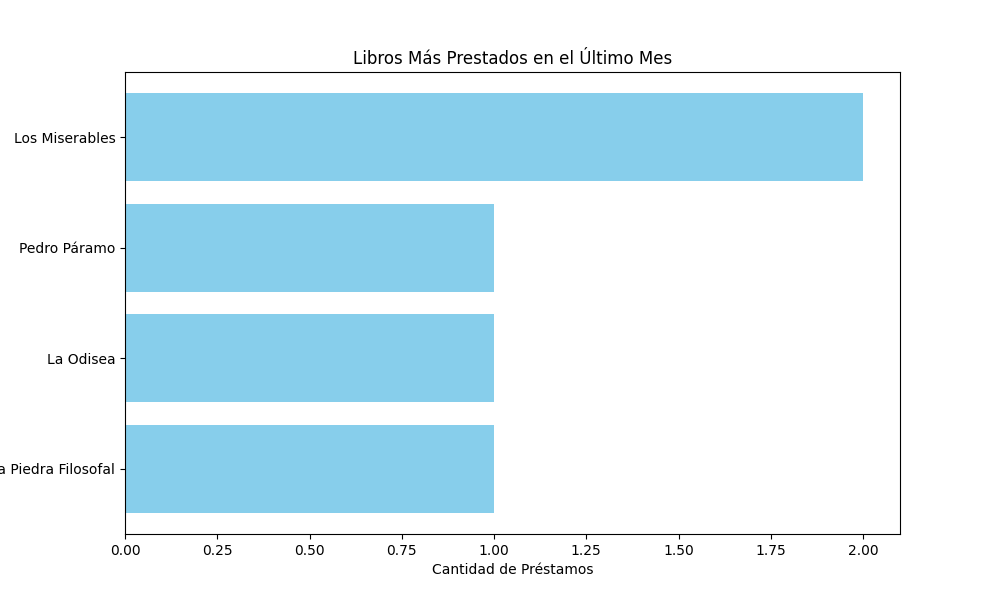
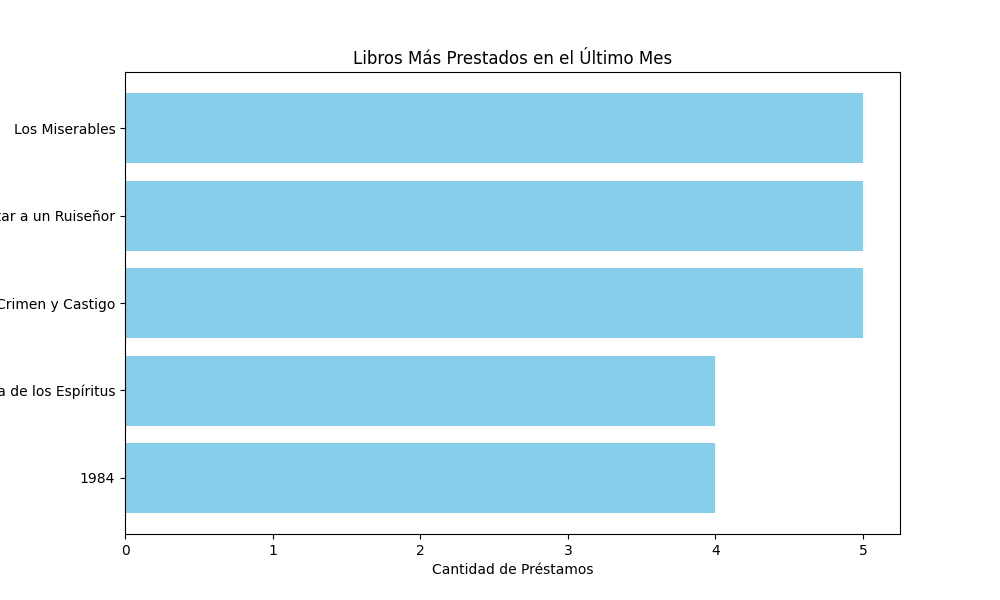
Carga de datos corregida nuevamente

diff --git a/Controlador/gestorBiblioteca.py b/Controlador/gestorBiblioteca.py
@@ -76,10 +76,17 @@ class BibliotecaGestor:
             return "ID del préstamo no encontrado."
 
 
+        # Verificar si ya está devuelto, y si no, lo marca como devuelto
+        # Se hace primero esto, porque si no guarda multas infinitamente, y no se 
+        resultado = self.prestamo_repo.marcar_como_devuelto(prestamo)
+        if resultado != True:  # Esto significa que devolvió un mensaje en lugar de True
+            return resultado
+
         # Verificar si el libro está fuera del plazo de devolución
         fecha_devolucion = datetime.strptime(prestamo_existente[0][4], "%Y-%m-%d").date()
         hoy = datetime.now().date()
         
+    
         dias_retraso = (hoy - fecha_devolucion).days
         if dias_retraso > 0:
             # Calcular monto de la multa
@@ -91,10 +98,6 @@ class BibliotecaGestor:
             self.registrar_multa(id_usuario, isbn, dias_retraso, monto_multa)
             print(f"El usuario tiene una multa de {monto_multa} por {dias_retraso} días de retraso.")
         
-        # Verificar si ya está devuelto, y si no, lo marca como devuelto
-        resultado = self.prestamo_repo.marcar_como_devuelto(prestamo)
-        if resultado != True:  # Esto significa que devolvió un mensaje en lugar de True
-            return resultado
 
         # Actualizar cantidad disponible del libro
         isbn = prestamo_existente[0][2]

diff --git a/Persistencia/_cargaDatos.py b/Persistencia/_cargaDatos.py
@@ -124,6 +124,7 @@ class CargaDatos:
                 devuelto = 1  # Devuelto
             else:
                 # Préstamo en curso
+                fecha_prestamo = datetime.now() - timedelta(days=random.randint(10, 15))
                 fecha_devolucion = datetime.now() + timedelta(days=random.randint(5, 30))
                 devuelto = random.choice([0, 1])  # Algunos devueltos, otros no
 
